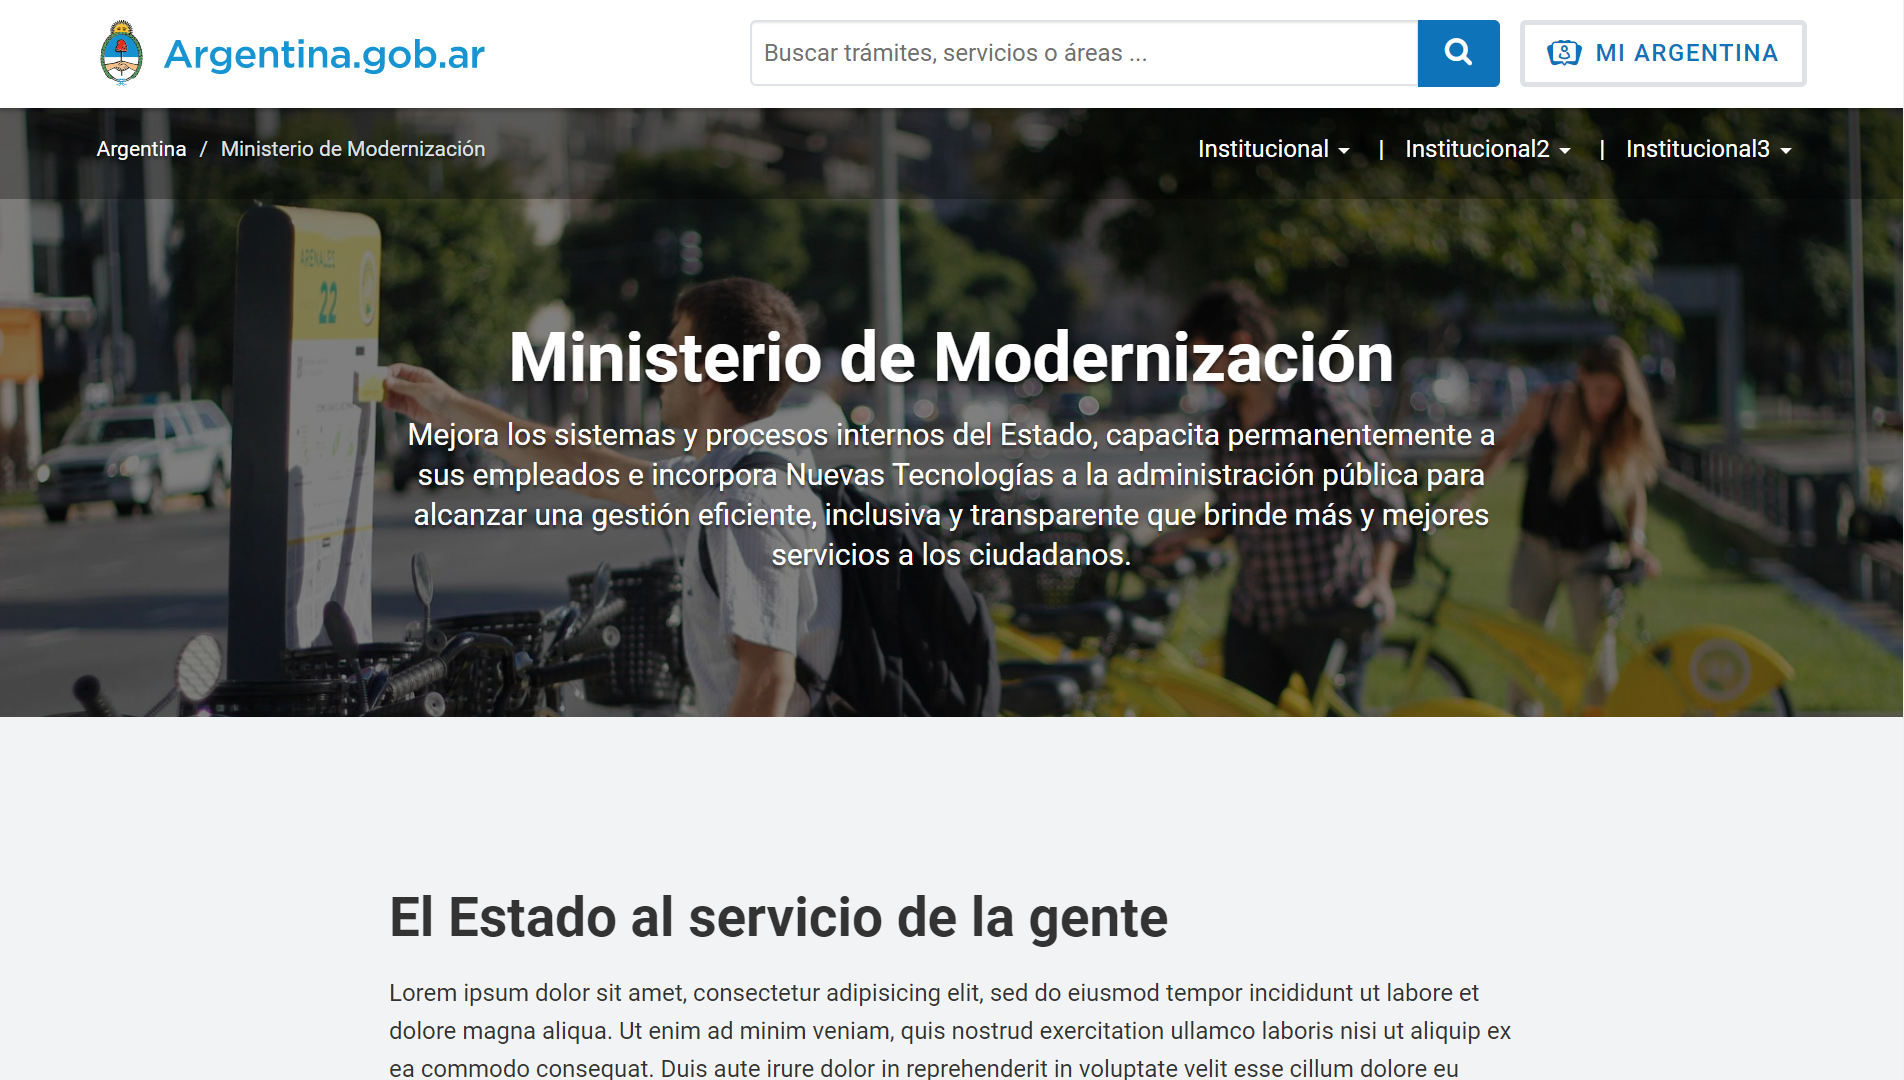
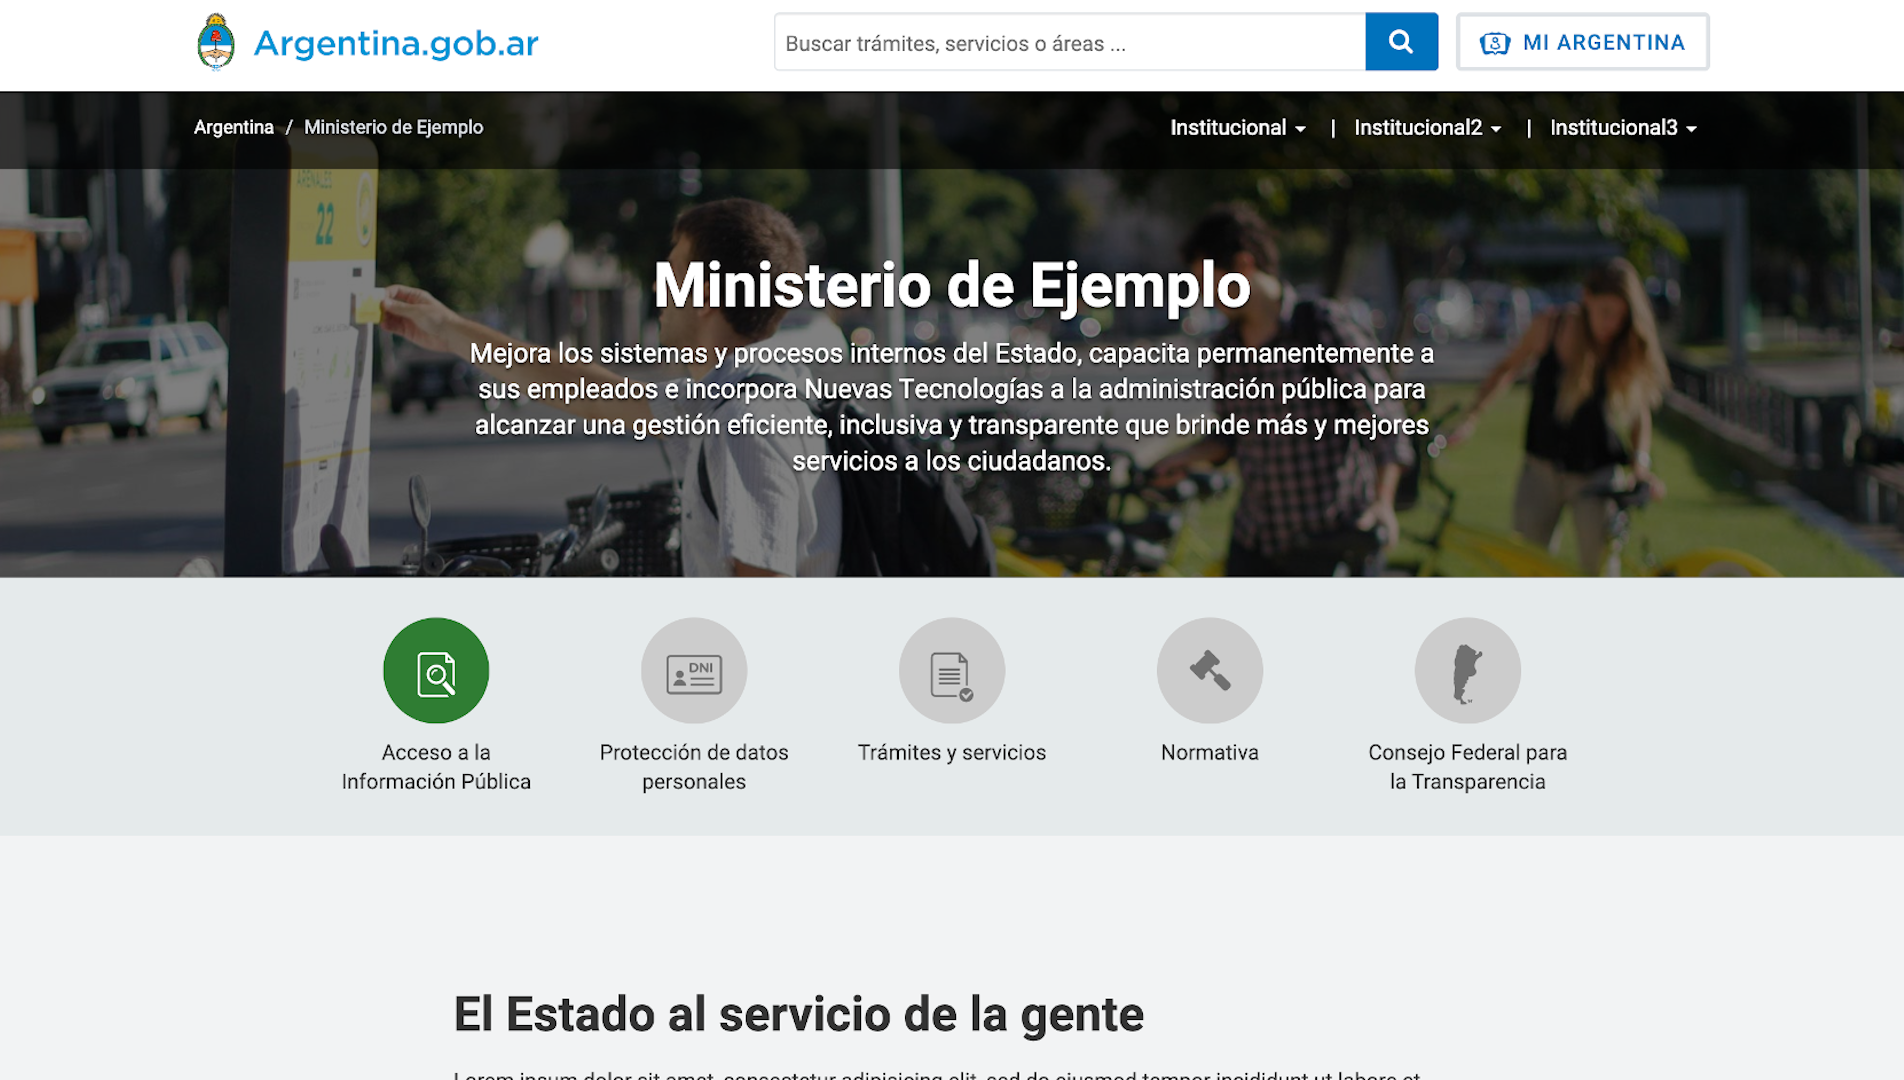
Más cambios de imagenes y textos viejos de plantillas

diff --git a/2015/documentacion.html b/2015/documentacion.html
@@ -614,7 +614,7 @@
                 <a class="panel panel-default" href="#">
                   <div style="background-image:url('img/placeholder.png');" class="panel-heading"></div>
                   <div class="panel-body">
-                    <h4>El Ministro Buryaile asistió a la apertura de la Semana Verde Internacional, en Berlín</h4>
+                    <h4>El Ministro Fitipaldi asistió a la apertura de la Semana Verde Internacional, en Berlín</h4>
                   </div>
                 </a>
               </div>
@@ -622,7 +622,7 @@
                 <a class="panel panel-default" href="#">
                   <div style="background-image:url('img/placeholder.png');" class="panel-heading"></div>
                   <div class="panel-body">
-                    <h4>El Ministro Buryaile asistió a la apertura de la Semana Verde Internacional, en Berlín</h4>
+                    <h4>El Ministro Fitipaldi asistió a la apertura de la Semana Verde Internacional, en Berlín</h4>
                   </div>
                 </a>
               </div>
@@ -635,7 +635,7 @@
                 <a class="panel panel-default" href="#">
                   <div style="background-image:url('img/placeholder.png');" class="panel-heading"></div>
                   <div class="panel-body">
-                    <h4>El Ministro Buryaile asistió a la apertura de la Semana Verde Internacional, en Berlín</h4>
+                    <h4>El Ministro Fitipaldi asistió a la apertura de la Semana Verde Internacional, en Berlín</h4>
                     <p class="text-muted">quis nostrud exercitation ullamco laboris nisi ut aliquip ex ea commodo</p>
                   </div>
                 </a>
@@ -644,7 +644,7 @@
                 <a class="panel panel-default" href="#">
                   <div style="background-image:url('img/placeholder.png');" class="panel-heading"></div>
                   <div class="panel-body">
-                    <h4>El Ministro Buryaile asistió a la apertura de la Semana Verde Internacional, en Berlín</h4>
+                    <h4>El Ministro Fitipaldi asistió a la apertura de la Semana Verde Internacional, en Berlín</h4>
                     <p class="text-muted">quis nostrud exercitation ullamco laboris nisi ut aliquip ex ea commodo</p>
                   </div>
                 </a>
@@ -661,7 +661,7 @@
     &lt;a class="panel panel-default" href="#"&gt;
       &lt;div style="background-image:url('img/placeholder.png');" class="panel-heading"&gt;&lt;/div&gt;
       &lt;div class="panel-body"&gt;
-        &lt;h4&gt;El Ministro Buryaile asistió a la apertura de la Semana Verde Internacional, en Berlín&lt;/h4&gt;
+        &lt;h4&gt;El Ministro Fitipaldi asistió a la apertura de la Semana Verde Internacional, en Berlín&lt;/h4&gt;
       &lt;/div&gt;
     &lt;/a&gt;
   &lt;/div&gt;
@@ -672,7 +672,7 @@
     &lt;a class="panel panel-default" href="#"&gt;
       &lt;div style="background-image:url('img/placeholder.png');" class="panel-heading"&gt;&lt;/div&gt;
       &lt;div class="panel-body"&gt;
-        &lt;h4&gt;El Ministro Buryaile asistió a la apertura de la Semana Verde Internacional, en Berlín&lt;/h4&gt;
+        &lt;h4&gt;El Ministro Fitipaldi asistió a la apertura de la Semana Verde Internacional, en Berlín&lt;/h4&gt;
         &lt;p class="text-muted"&gt;quis nostrud exercitation ullamco laboris nisi ut aliquip ex ea commodo&lt;/p&gt;
       &lt;/div&gt;
     &lt;/a&gt;
@@ -701,7 +701,7 @@
                   <div style="background-image:url('img/placeholder.png');" class="panel-heading"></div>
                   <div class="panel-body">
                     <time>Jueves 14 de Enero del 2016</time>
-                    <h4>El Ministro Buryaile asistió a la apertura de la Semana Verde Internacional, en Berlín</h4>
+                    <h4>El Ministro Fitipaldi asistió a la apertura de la Semana Verde Internacional, en Berlín</h4>
                   </div>
                 </a>
               </div>
@@ -710,7 +710,7 @@
                   <div style="background-image:url('img/placeholder.png');" class="panel-heading"></div>
                   <div class="panel-body">
                     <time>Jueves 14 de Enero del 2016</time>
-                    <h4>El Ministro Buryaile asistió a la apertura de la Semana Verde Internacional, en Berlín</h4>
+                    <h4>El Ministro Fitipaldi asistió a la apertura de la Semana Verde Internacional, en Berlín</h4>
                   </div>
                 </a>
               </div>
@@ -731,7 +731,7 @@
       &lt;div style="background-image:url('img/placeholder.png');" class="panel-heading"&gt;&lt;/div&gt;
       &lt;div class="panel-body"&gt;
         &lt;time&gt;Jueves 14 de Enero del 2016&lt;/time&gt;
-        &lt;h4&gt;El Ministro Buryaile asistió a la apertura de la Semana Verde Internacional, en Berlín&lt;/h4&gt;
+        &lt;h4&gt;El Ministro Fitipaldi asistió a la apertura de la Semana Verde Internacional, en Berlín&lt;/h4&gt;
       &lt;/div&gt;
     &lt;/a&gt;
   &lt;/div&gt;
@@ -769,7 +769,7 @@
                   <div style="background-image:url('img/placeholder.png');" class="panel-heading"></div>
                   <div class="panel-body">
                     <time>Jueves 14 de Enero del 2016</time>
-                    <h2>Andrés Ibarra lanzó País Digital en Salta</h2>
+                    <h2>Marcelo Fitipaldi lanzó País Digital en Salta</h2>
                   </div>
                 </a>
               </div>
@@ -778,7 +778,7 @@
                   <div style="background-image:url('img/placeholder.png');" class="panel-heading"></div>
                   <div class="panel-body">
                     <time>Jueves 14 de Enero del 2016</time>
-                    <h4>El Ministro Buryaile asistió a la apertura de la Semana Verde Internacional, en Berlín</h4>
+                    <h4>El Ministro Fitipaldi asistió a la apertura de la Semana Verde Internacional, en Berlín</h4>
                   </div>
                 </a>
               </div>
@@ -787,7 +787,7 @@
                   <div style="background-image:url('img/placeholder.png');" class="panel-heading"></div>
                   <div class="panel-body">
                     <time>Jueves 14 de Enero del 2016</time>
-                    <h4>El Ministro Buryaile asistió a la apertura de la Semana Verde Internacional, en Berlín</h4>
+                    <h4>El Ministro Fitipaldi asistió a la apertura de la Semana Verde Internacional, en Berlín</h4>
                   </div>
                 </a>
               </div>
@@ -811,7 +811,7 @@
       &lt;div style="background-image:url('img/placeholder.png');" class="panel-heading"&gt;&lt;/div&gt;
       &lt;div class="panel-body"&gt;
         &lt;time&gt;Jueves 14 de Enero del 2016&lt;/time&gt;
-        &lt;h2&gt;El Ministro Buryaile asistió a la apertura de la Semana Verde Internacional, en Berlín&lt;/h2&gt;
+        &lt;h2&gt;El Ministro Fitipaldi asistió a la apertura de la Semana Verde Internacional, en Berlín&lt;/h2&gt;
       &lt;/div&gt;
     &lt;/a&gt;
   &lt;/div&gt;
@@ -825,7 +825,7 @@
       &lt;div style="background-image:url('img/placeholder.png');" class="panel-heading"&gt;&lt;/div&gt;
       &lt;div class="panel-body"&gt;
         &lt;time&gt;Jueves 14 de Enero del 2016&lt;/time&gt;
-        &lt;h4&gt;El Ministro Buryaile asistió a la apertura de la Semana Verde Internacional, en Berlín&lt;/h4&gt;
+        &lt;h4&gt;El Ministro Fitipaldi asistió a la apertura de la Semana Verde Internacional, en Berlín&lt;/h4&gt;
       &lt;/div&gt;
     &lt;/a&gt;
   &lt;/div&gt;

diff --git a/plantillas/paginas-de-argentina/pagina-area.html b/plantillas/paginas-de-argentina/pagina-area.html
@@ -666,7 +666,7 @@
           <div style="background-image:url('./img/01.jpg');" class="panel-heading img"></div>
           <div class="panel-body">
             <time aria-hidden="true">Jueves 14 de Enero del 2016</time>
-            <p class="h3_title">El Ministro Buryaile asistió a la apertura de la Semana Verde Internacional, en Berlín</p>
+            <p class="h3_title">El Ministro Fitipaldi asistió a la apertura de la Semana Verde Internacional, en Berlín</p>
           </div>
         </a>
       </div>
@@ -676,7 +676,7 @@
           <div style="background-image:url('./img/02.jpg');" class="panel-heading img"></div>
           <div class="panel-body">
             <time aria-hidden="true">Jueves 14 de Enero del 2016</time>
-            <p class="h3_title">El Ministro Buryaile asistió a la apertura de la Semana Verde Internacional, en Berlín</h4>
+            <p class="h3_title">El Ministro Fitipaldi asistió a la apertura de la Semana Verde Internacional, en Berlín</h4>
           </div>
         </a>
       </div>
@@ -687,7 +687,7 @@
           <div style="background-image:url('./img/03.jpg');" class="panel-heading img"></div>
           <div class="panel-body">
             <time aria-hidden="true">Jueves 14 de Enero del 2016</time>
-            <p class="h3_title">El Ministro Buryaile asistió a la apertura de la Semana Verde Internacional, en Berlín</h4>
+            <p class="h3_title">El Ministro Fitipaldi asistió a la apertura de la Semana Verde Internacional, en Berlín</h4>
           </div>
         </a>
       </div>
@@ -696,7 +696,7 @@
           <div style="background-image:url('./img/04.jpg');" class="panel-heading img"></div>
           <div class="panel-body">
             <time aria-hidden="true">Jueves 14 de Enero del 2016</time>
-            <p class="h3_title">El Ministro Buryaile asistió a la apertura de la Semana Verde Internacional, en Berlín</h4>
+            <p class="h3_title">El Ministro Fitipaldi asistió a la apertura de la Semana Verde Internacional, en Berlín</h4>
           </div>
         </a>
       </div>
@@ -708,7 +708,7 @@
           <div style="background-image:url('./img/01.jpg');" class="panel-heading img"></div>
           <div class="panel-body">
             <time aria-hidden="true">Jueves 14 de Enero del 2016</time>
-            <p class="h3_title">El Ministro Buryaile asistió a la apertura de la Semana Verde Internacional, en Berlín</h4>
+            <p class="h3_title">El Ministro Fitipaldi asistió a la apertura de la Semana Verde Internacional, en Berlín</h4>
           </div>
         </a>
       </div>
@@ -717,7 +717,7 @@
           <div style="background-image:url('./img/02.jpg');" class="panel-heading img"></div>
           <div class="panel-body">
             <time aria-hidden="true">Jueves 14 de Enero del 2016</time>
-            <p class="h3_title">El Ministro Buryaile asistió a la apertura de la Semana Verde Internacional, en Berlín</p>
+            <p class="h3_title">El Ministro Fitipaldi asistió a la apertura de la Semana Verde Internacional, en Berlín</p>
           </div>
         </a>
       </div>
@@ -740,11 +740,11 @@
 
     <div class="row margin-20">
       <div class="col-xs-12 col-sm-3 col-md-2">
-        <img class="img-responsive img-rounded" alt="" src="img/ibarra.jpg">
+        <img class="img-responsive img-rounded" alt="" src="img/persona.jpg">
       </div>
       <div class="col-xs-12 col-sm-9 col-md-10">
-        <h2>Andrés Ibarra<br><small>Ministro de modernización</small></h2>
-        <p>Andrés Ibarra es el Ministro de Ejemplo de la Nación desde el 10 de diciembre del 2015. <br>Anteriormente se desempeñó como Ministro de Ejemplo de la Ciudad de Buenos Aires (2011-2015).</p>
+        <h2>Marcelo Fitipaldi<br><small>Ministro de ejemplo</small></h2>
+        <p>Marcelo Fitipaldi es el Ministro de Ejemplo de la Nación desde el 10 de diciembre del 2015. <br>Anteriormente se desempeñó como Ministro de Ejemplo de la Ciudad de Buenos Aires (2011-2015).</p>
       </div>
     </div>
     <div class="page-break"></div>

diff --git a/plantillas/paginas-de-argentina/pagina.html b/plantillas/paginas-de-argentina/pagina.html
@@ -134,7 +134,7 @@
 
         <h2>h2. El Estado al servicio de la gente</h2>
         <p>La decisión se formalizará a través de un decreto que posibilitará la apertura, desde el mes de febrero, de un portal de datos abiertos con información que “hasta hoy no era publicada”.</p>
-        <blockquote><p>“Todas las áreas del Gobierno tendrán un plan de comunicación e información que será publicado y actualizado en forma permanente”</p> <small>Andrés Ibarra</small></blockquote>
+        <blockquote><p>“Todas las áreas del Gobierno tendrán un plan de comunicación e información que será publicado y actualizado en forma permanente”</p> <small>Marcelo Fitipaldi</small></blockquote>
         <p>El concepto de Gobierno Abierto descansa en "una filosofía de gestión que se traduce en brindar información concreta a los ciudadanos".</p>
         <p>Dijo que esto abarcará datos sobre las estructuras de Gobierno, sueldos y declaraciones juradas de los funcionarios, el sistema de compras del Estado y “toda la información diaria de cada una de las áreas que hoy es algo cerrado, oscuro y no transparente”.</p>
         <p>“Nosotros queremos ir en sentido contrario, no sólo para que se conozca la información del Gobierno, sino para que pueda ser usada por la sociedad civil, y a partir de eso constituir mecanismos colaborativos que faciliten desarrollos estadísticos y distintas aplicaciones ”, agregó.</p>
@@ -149,7 +149,7 @@
 
         <h4>h4. El Estado al servicio de la gente</h4>
         <p>El ministro destacó que “ya hemos realizado una experiencia muy importante” en ese sentido durante la gestión que llevó adelante Fernandez como Jefe de Gobierno de la ciudad de Buenos Aires. (hacemos un enlace a la web de ciudad aca?)</p>
-        <p>Ibarra recordó que desde 2012 la Argentina forma parte de la Alianza Mundial para el Gobierno Abierto, una iniciativa multilateral orientada a propiciar compromisos concretos de parte de los gobiernos para promover la transparencia de la información pública.</p>
+        <p>Fitipaldi recordó que desde 2012 la Argentina forma parte de la Alianza Mundial para el Gobierno Abierto, una iniciativa multilateral orientada a propiciar compromisos concretos de parte de los gobiernos para promover la transparencia de la información pública.</p>
 
       </div>
 
@@ -163,7 +163,7 @@
       <div class="col-md-8 col-md-offset-2">
         <h4>h4. El Estado al servicio de la gente</h4>
         <p>El ministro destacó que “ya hemos realizado una experiencia muy importante” en ese sentido durante la gestión que llevó adelante Fernandez como Jefe de Gobierno de la ciudad de Buenos Aires. (hacemos un enlace a la web de ciudad aca?)</p>
-        <p>Ibarra recordó que desde 2012 la Argentina forma parte de la Alianza Mundial para el Gobierno Abierto, una iniciativa multilateral orientada a propiciar compromisos concretos de parte de los gobiernos para promover la transparencia de la información pública.</p>
+        <p>Fitipaldi recordó que desde 2012 la Argentina forma parte de la Alianza Mundial para el Gobierno Abierto, una iniciativa multilateral orientada a propiciar compromisos concretos de parte de los gobiernos para promover la transparencia de la información pública.</p>
         <p>Sin embargo, advirtió que hasta el presente la participación del país ha sido “pobre, escasa y poco proactiva, a tal punto que estamos en el puesto 54, mientras que Uruguay, por ejemplo, está en el puesto número siete”.  </p>
         <p>“Trabajaremos  para revertir esa tendencia y lograr que  Argentina pase a tener un rol activo en la promoción de la transparencia, la colaboración y  la innovación".</p>
 

diff --git a/plantillas/paginas-de-argentina/pagina-navegacion.html b/plantillas/paginas-de-argentina/pagina-navegacion.html
@@ -162,7 +162,7 @@
 
         <h2>h2. El Estado al servicio de la gente</h2>
         <p>La decisión se formalizará a través de un decreto que posibilitará la apertura, desde el mes de febrero, de un portal de datos abiertos con información que “hasta hoy no era publicada”.</p>
-        <blockquote><p>“Todas las áreas del Gobierno tendrán un plan de comunicación e información que será publicado y actualizado en forma permanente”</p> <small>Andrés Ibarra</small></blockquote>
+        <blockquote><p>“Todas las áreas del Gobierno tendrán un plan de comunicación e información que será publicado y actualizado en forma permanente”</p> <small>Marcelo Fitipaldi</small></blockquote>
         <p>El concepto de Gobierno Abierto descansa en "una filosofía de gestión que se traduce en brindar información concreta a los ciudadanos".</p>
         <p>Dijo que esto abarcará datos sobre las estructuras de Gobierno, sueldos y declaraciones juradas de los funcionarios, el sistema de compras del Estado y “toda la información diaria de cada una de las áreas que hoy es algo cerrado, oscuro y no transparente”.</p>
         <p>“Nosotros queremos ir en sentido contrario, no sólo para que se conozca la información del Gobierno, sino para que pueda ser usada por la sociedad civil, y a partir de eso constituir mecanismos colaborativos que faciliten desarrollos estadísticos y distintas aplicaciones ”, agregó.</p>
@@ -177,7 +177,7 @@
         <div class="page-break"></div>
         <h4>h4. El Estado al servicio de la gente</h4>
         <p>El ministro destacó que “ya hemos realizado una experiencia muy importante” en ese sentido durante la gestión que llevó adelante Fernandez como Jefe de Gobierno de la ciudad de Buenos Aires. (hacemos un enlace a la web de ciudad aca?)</p>
-        <p>Ibarra recordó que desde 2012 la Argentina forma parte de la Alianza Mundial para el Gobierno Abierto, una iniciativa multilateral orientada a propiciar compromisos concretos de parte de los gobiernos para promover la transparencia de la información pública.</p>
+        <p>Fitipaldi recordó que desde 2012 la Argentina forma parte de la Alianza Mundial para el Gobierno Abierto, una iniciativa multilateral orientada a propiciar compromisos concretos de parte de los gobiernos para promover la transparencia de la información pública.</p>
 
         <figure>
           <img class="img-responsive img-full" src="img/billete.jpg">

diff --git a/2015/componentes.html b/2015/componentes.html
@@ -217,14 +217,14 @@
               <h3 id="cita">Cita</h3>
               <blockquote>
                <p> “Todas las áreas del Gobierno tendrán un plan de comunicación e información que será publicado y actualizado en forma permanente”</p>
-                — <cite>Andrés Ibarra</cite>
+                — <cite>Marcelo Fitipaldi</cite>
               </blockquote>
               <br>
               <pre>
                 <code class="language-markup">
                   &lt;blockquote&gt;
                    &lt;p&gt; “Todas las áreas del Gobierno tendrán un plan de comunicación e información que será publicado y actualizado en forma permanente”&lt;/p&gt;
-                    — &lt;cite&gt;Andrés Ibarra&lt;/cite&gt;
+                    — &lt;cite&gt;Marcelo Fitipaldi&lt;/cite&gt;
                   &lt;/blockquote&gt;
                 </code>
               </pre>
@@ -1496,7 +1496,7 @@
                     <div style="background-image:url('./img/placeholder.png');" class="panel-heading"></div>
                     <div class="panel-body">
                       <time>Jueves 14 de Enero del 2016</time>
-                      <h4>El Ministro Buryaile asistió a la apertura de la Semana Verde Internacional, en Berlín</h4>
+                      <h4>El Ministro Fitipaldi asistió a la apertura de la Semana Verde Internacional, en Berlín</h4>
                     </div>
                   </a>
                 </div>
@@ -1519,7 +1519,7 @@
                     &lt;div style="background-image:url('./img/placeholder.png');" class="panel-heading"&gt;&lt;/div&gt;
                     &lt;div class="panel-body"&gt;
                       &lt;time&gt;Jueves 14 de Enero del 2016&lt;/time&gt;
-                      &lt;h4&gt;El Ministro Buryaile asistió a la apertura de la Semana Verde Internacional, en Berlín&lt;/h4&gt;
+                      &lt;h4&gt;El Ministro Fitipaldi asistió a la apertura de la Semana Verde Internacional, en Berlín&lt;/h4&gt;
                     &lt;/div&gt;
                   &lt;/a&gt;
                 </code>

diff --git a/identidad/colores/index.html b/identidad/colores/index.html
@@ -119,7 +119,7 @@
             <div class="col-sm-12">
             <h1>Colores</h1>
 
-            <p>Los colores de Poncho están basados en el <a href="https://github.com/argob/presidencia-manual-de-marca" target="_blank">Manual de identidad de Presidencia de la Nación</a> pero tienen ajustes de brillo y contraste para que sean accesibles.</p>
+            <p>Los colores de Poncho están basados en el Manual de identidad de Presidencia de la Nación pero tienen ajustes de brillo y contraste para que sean accesibles.</p>
 
             <hr>
 
